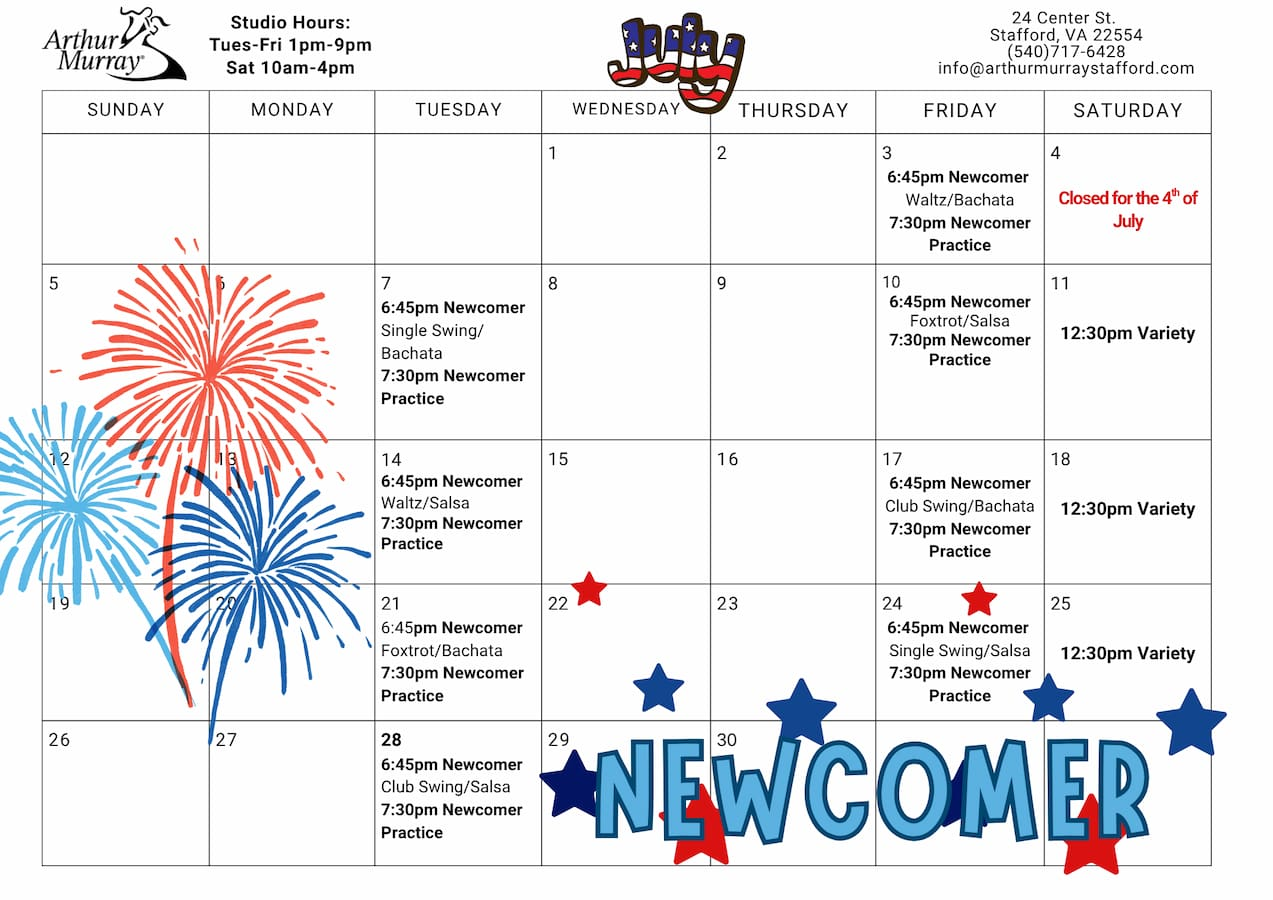
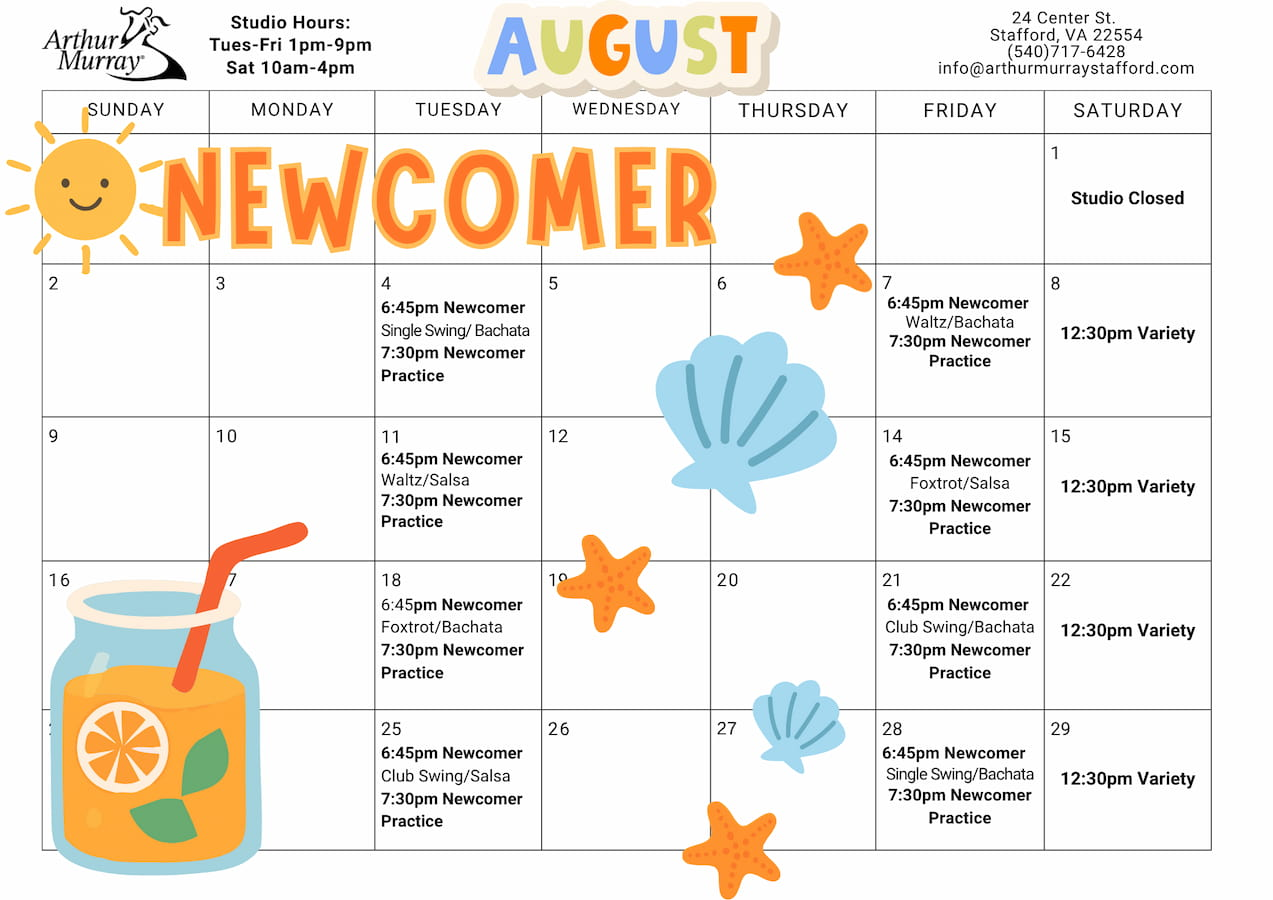
Removes July cal

diff --git a/build/dance-lessons-dumfries.html b/build/dance-lessons-dumfries.html
@@ -1513,7 +1513,7 @@
     class="calendar"
   />
 </a>
-<a
+<!-- <a
   href="./images/staffordCalendarNext.jpg"
   target="_blank"
   aria-label="opens in a new tab"
@@ -1525,7 +1525,7 @@
     height="773"
     class="calendar"
   />
-</a>
+</a> -->
 <!-- <h2 class="calendar-header" id="calendar2">Current Student Calendar</h2> -->
 <a
   href="./images/staffordCalendarMedalist.jpg"
@@ -1540,7 +1540,7 @@
     class="calendar"
   />
 </a>
-<a
+<!-- <a
   href="./images/staffordCalendarMedalistNext.jpg"
   target="_blank"
   aria-label="opens in a new tab"
@@ -1552,7 +1552,7 @@
     height="773"
     class="calendar"
   />
-</a>
+</a> -->
 
       </section>
     </main>

diff --git a/build/dance-lessons-fredericksburg.html b/build/dance-lessons-fredericksburg.html
@@ -1515,7 +1515,7 @@
     class="calendar"
   />
 </a>
-<a
+<!-- <a
   href="./images/staffordCalendarNext.jpg"
   target="_blank"
   aria-label="opens in a new tab"
@@ -1527,7 +1527,7 @@
     height="773"
     class="calendar"
   />
-</a>
+</a> -->
 <!-- <h2 class="calendar-header" id="calendar2">Current Student Calendar</h2> -->
 <a
   href="./images/staffordCalendarMedalist.jpg"
@@ -1542,7 +1542,7 @@
     class="calendar"
   />
 </a>
-<a
+<!-- <a
   href="./images/staffordCalendarMedalistNext.jpg"
   target="_blank"
   aria-label="opens in a new tab"
@@ -1554,7 +1554,7 @@
     height="773"
     class="calendar"
   />
-</a>
+</a> -->
 
       </section>
     </main>

diff --git a/build/dance-lessons-stafford.html b/build/dance-lessons-stafford.html
@@ -1512,7 +1512,7 @@
     class="calendar"
   />
 </a>
-<a
+<!-- <a
   href="./images/staffordCalendarNext.jpg"
   target="_blank"
   aria-label="opens in a new tab"
@@ -1524,7 +1524,7 @@
     height="773"
     class="calendar"
   />
-</a>
+</a> -->
 <!-- <h2 class="calendar-header" id="calendar2">Current Student Calendar</h2> -->
 <a
   href="./images/staffordCalendarMedalist.jpg"
@@ -1539,7 +1539,7 @@
     class="calendar"
   />
 </a>
-<a
+<!-- <a
   href="./images/staffordCalendarMedalistNext.jpg"
   target="_blank"
   aria-label="opens in a new tab"
@@ -1551,7 +1551,7 @@
     height="773"
     class="calendar"
   />
-</a>
+</a> -->
 
       </section>
     </main>

diff --git a/build/dance-lessons-woodbridge.html b/build/dance-lessons-woodbridge.html
@@ -1513,7 +1513,7 @@
     class="calendar"
   />
 </a>
-<a
+<!-- <a
   href="./images/staffordCalendarNext.jpg"
   target="_blank"
   aria-label="opens in a new tab"
@@ -1525,7 +1525,7 @@
     height="773"
     class="calendar"
   />
-</a>
+</a> -->
 <!-- <h2 class="calendar-header" id="calendar2">Current Student Calendar</h2> -->
 <a
   href="./images/staffordCalendarMedalist.jpg"
@@ -1540,7 +1540,7 @@
     class="calendar"
   />
 </a>
-<a
+<!-- <a
   href="./images/staffordCalendarMedalistNext.jpg"
   target="_blank"
   aria-label="opens in a new tab"
@@ -1552,7 +1552,7 @@
     height="773"
     class="calendar"
   />
-</a>
+</a> -->
 
       </section>
     </main>

diff --git a/build/partials/calendar.html b/build/partials/calendar.html
@@ -13,7 +13,7 @@
     class="calendar"
   />
 </a>
-<a
+<!-- <a
   href="./images/staffordCalendarNext.jpg"
   target="_blank"
   aria-label="opens in a new tab"
@@ -25,7 +25,7 @@
     height="773"
     class="calendar"
   />
-</a>
+</a> -->
 <!-- <h2 class="calendar-header" id="calendar2">Current Student Calendar</h2> -->
 <a
   href="./images/staffordCalendarMedalist.jpg"
@@ -40,7 +40,7 @@
     class="calendar"
   />
 </a>
-<a
+<!-- <a
   href="./images/staffordCalendarMedalistNext.jpg"
   target="_blank"
   aria-label="opens in a new tab"
@@ -52,4 +52,4 @@
     height="773"
     class="calendar"
   />
-</a>
+</a> -->

diff --git a/src/partials/calendar.html b/src/partials/calendar.html
@@ -13,7 +13,7 @@
     class="calendar"
   />
 </a>
-<a
+<!-- <a
   href="./images/staffordCalendarNext.jpg"
   target="_blank"
   aria-label="opens in a new tab"
@@ -25,7 +25,7 @@
     height="773"
     class="calendar"
   />
-</a>
+</a> -->
 <!-- <h2 class="calendar-header" id="calendar2">Current Student Calendar</h2> -->
 <a
   href="./images/staffordCalendarMedalist.jpg"
@@ -40,7 +40,7 @@
     class="calendar"
   />
 </a>
-<a
+<!-- <a
   href="./images/staffordCalendarMedalistNext.jpg"
   target="_blank"
   aria-label="opens in a new tab"
@@ -52,4 +52,4 @@
     height="773"
     class="calendar"
   />
-</a>
+</a> -->
